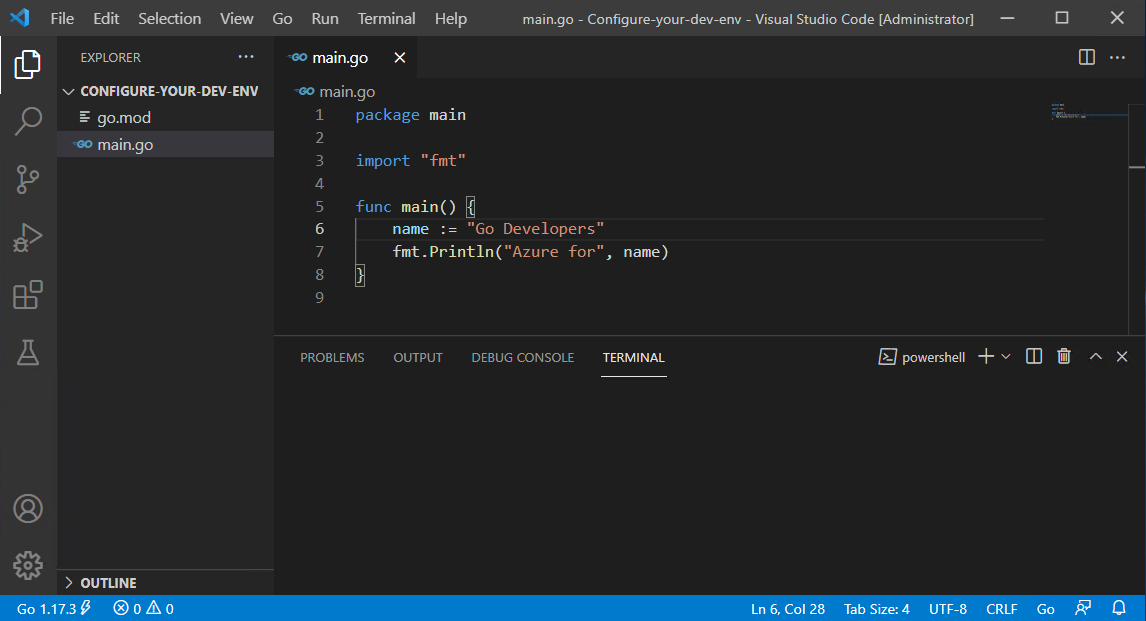
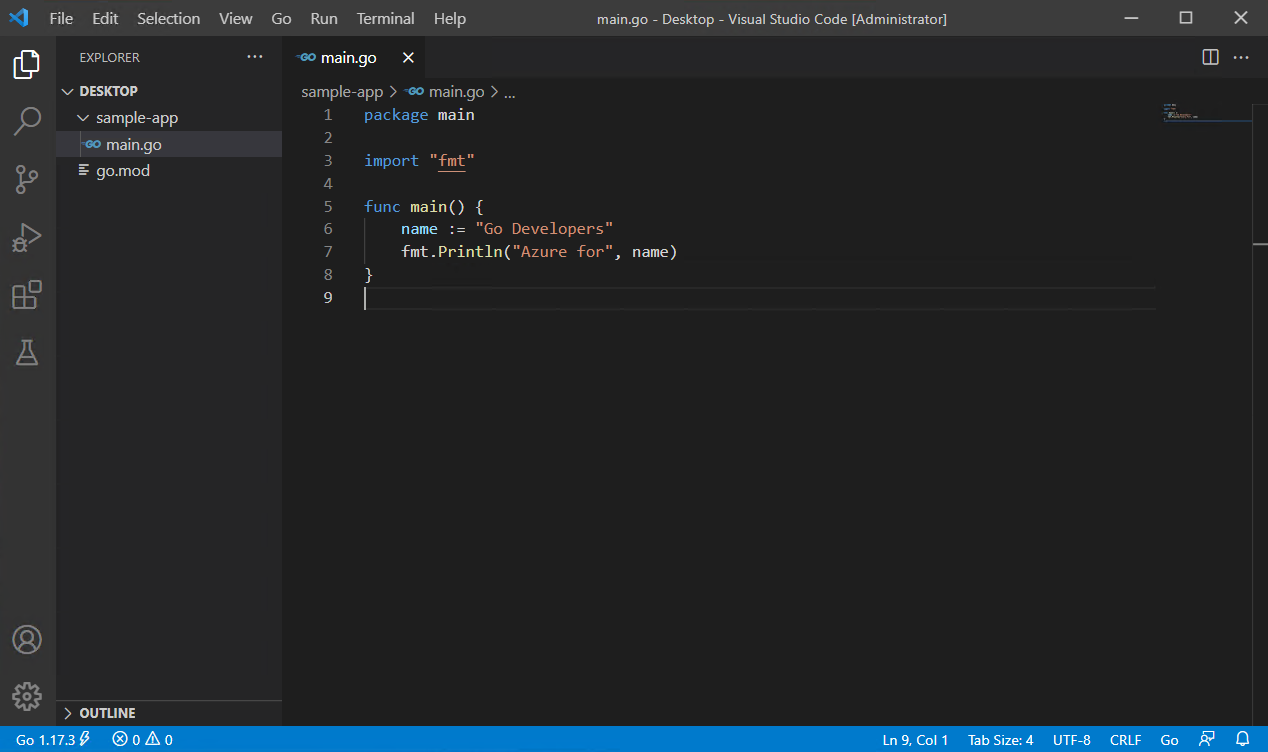
converted all sections to lightbox tables

diff --git a/articles/go/configure-vscode-for-go-development.md b/articles/go/configure-vscode-for-go-development.md
@@ -1,13 +1,13 @@
 ---
-title: Configure Visual Studio Code for Azure Development with Go
-description: This article helps you configure Visual Studio Code for Azure development with Go.
+title: Configure Visual Studio Code for Go Development
+description: This article helps you configure Visual Studio Code for Go development.
 ms.date: 11/11/2021
 ms.topic: quickstart
 ms.custom: devx-track-go
 ms.author: jduffney
 ---
 
-# Configure Visual Studio Code for Azure Development with Go
+# Configure Visual Studio Code for Go Development
 
 In this quickstart, you'll install and configure the [Go for Visual Studio Code](https://marketplace.visualstudio.com/items?itemName=golang.Go) extension.
 
@@ -15,13 +15,22 @@ In the [Go Developer Survey 2020 Results](https://go.dev/blog/survey2020-results
 
 Visual Studio Code and the Go extension provide IntelliSense, code-navigation, and advanced debugging. In this quickstart, you'll configure Visual Studio Code then write, run, and debug and a sample Go program.
 
-![A screenshot showing a Go program within Visual Studio Code](./media/configure-vscode-for-go-development/go-in-vscode.png)
+![A screenshot showing a Go program within Visual Studio Code](./media/configure-vscode-for-go-development/go-in-vscode.png) 
 
-## 1. Download and Install Visual Studio Code
+<!-- retake screenshot, dir name is sample-app now -->
 
-In a web browser:
+## 1. Download and Install Go and Visual Studio Code
 
-1. Go to [code.visualstudio.com](https://code.visualstudio.com/)
+Download and Install Go:
+
+1. In a web browser, go to [golang.org/doc/install](https://golang.org/doc/install).
+1. Download the version for your operating system.
+1. Once downloaded, run the installer.
+1. Open a command prompt, then run `go version` to confirm Go was installed.
+
+Download and install Visual Studio Code:
+
+1. In a web browser, go to [code.visualstudio.com](https://code.visualstudio.com/)
 1. Download the version for your operating system, supports Windows, Linux, and macOS.
 1. Once downloaded, run the installer. This will only take a minute.
 
@@ -43,34 +52,33 @@ In a web browser:
 
 ## 4. Write a sample Go program
 
-In Visual Studio code:
+| Instructions    | Screenshot |
+|:----------------|-----------:|
+| In Visual Studio Code, open the folder where you'll create the root directory of your Go application. To open the folder, click the Explorer icon in the Activity Bar then click **Open Folder**. | :::image type="content" source="./media/configure-vscode-for-go-development/open-folder-240px.png" alt-text="A screenshot showing how search the command pallet" lightbox="./media/configure-vscode-for-go-development/open-folder.png"::: |
+| Click **New Folder** in the Explorer panel, then Create the root director for your sample Go application named `sample-app` | :::image type="content" source="./media/configure-vscode-for-go-development/create-folder-240px.png" alt-text="A screenshot showing how to create a folder in vs code" lightbox="./media/configure-vscode-for-go-development/create-folder.png"::: |
+| Click **New File** in the Explorer panel, then name the file `main.go` | :::image type="content" source="./media/configure-vscode-for-go-development/create-file-240px.png" alt-text="A screenshot showing how to create a file in vs code" lightbox="./media/configure-vscode-for-go-development/create-file.png"::: |
+| Open a terminal, **Terminal > New Terminal**, then run the command `go mod init sample-app` to initialize your sample Go app.   | :::image type="content" source="./media/configure-vscode-for-go-development/run-go-mod-240px.png" alt-text="A screenshot running the go mod init command" lightbox="./media/configure-vscode-for-go-development/run-go-mod.png"::: |
 
-1. Open the root directory for your sample Go program by going to *File* > *Open Folder*.
-1. From the integrated terminal type `go mod init sample-app`.
-1. Next, create a new file named `main.go`.
-1. Copy the following code into the `main.go` file.
+Copy the following code into the `main.go` file:
 
-    ```go
-    package main
+```go
+package main
 
-    import "fmt"
+import "fmt"
 
-    func main() {
-        name := "Go Developers"
-        fmt.Println("Azure for", name)
-    }
-    ```
+func main() {
+    name := "Go Developers"
+    fmt.Println("Azure for", name)
+}
+```
 
-## 5. Run your Go program with the debugger
+## 5. Run the debugger
 
-In Visual Studio code:
-
-1. Create a break point on line 7 by left clicking to the left of the numbered line. Or place your cursor on line 7 and hit F9.
-1. Bring up the Debug view by clicking on the debug icon in the Activity Bar on the side of Visual Studio Code. Or use keyboard shortcut (Ctrl+Shift+D).
-1. Click *Run and Debug*, or hit F5 to run the debugger.
-1. Hover over the variable `name` on line 7 to see its value.
-
-<!-- make a table -->
+| Instructions    | Screenshot |
+|:----------------|-----------:|
+| Create a break point on line 7 by left clicking to the left of the numbered line. Or place your cursor on line 7 and hit F9. | :::image type="content" source="./media/configure-vscode-for-go-development/create-breakpoint-240px.png" alt-text="A screenshot showing how search the command pallet" lightbox="./media/configure-vscode-for-go-development/create-breakpoint.png"::: |
+| Bring up the Debug view by clicking on the debug icon in the Activity Bar on the side of Visual Studio Code. Or use keyboard shortcut (Ctrl+Shift+D). | :::image type="content" source="./media/configure-vscode-for-go-development/run-debugger-240px.png" alt-text="A screenshot showing how to create a folder in vs code" lightbox="./media/configure-vscode-for-go-development/run-debugger.png"::: |
+| Click *Run and Debug*, or hit F5 to run the debugger. Then Hover over the variable `name` on line 7 to see its value. Exit the debugger by clicking **Continue** on the debugger bar or hit F5. | :::image type="content" source="./media/configure-vscode-for-go-development/create-file-240px.png" alt-text="A screenshot showing how to create a file in vs code" lightbox="./media/configure-vscode-for-go-development/create-file.png"::: |
 
 ## Next steps
 
